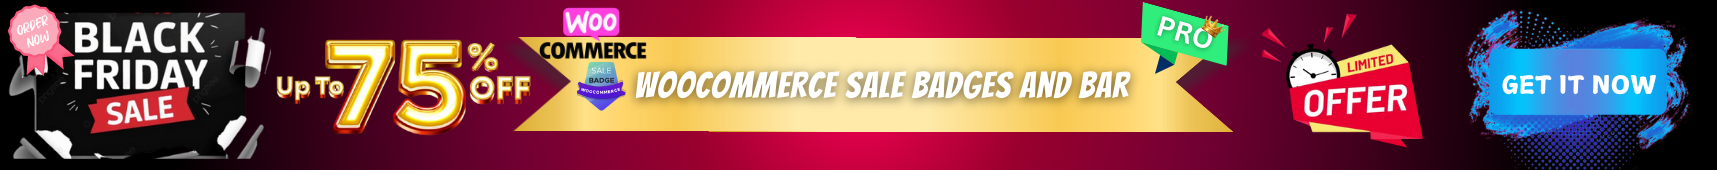
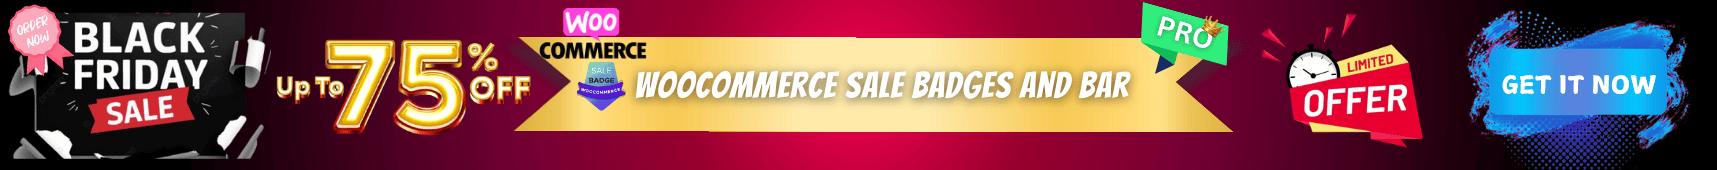
Delete Cybermonday Css and add offer image

diff --git a/assets/js/dev/admin/components/BlackFriday/BlackFridayBanner.jsx b/assets/js/dev/admin/components/BlackFriday/BlackFridayBanner.jsx
@@ -1,28 +1,73 @@
-import React, { useState } from 'react';
+import React, { useState, useEffect } from 'react';
 import { __ } from '@wordpress/i18n';
 import { IMAGES_URL } from './../../utils/constants';
 
 const BlackFridayBanner = () => {
 	const [ show, setShow ] = useState( true );
+	const [ bannerData, setBannerData ] = useState( null );
+
+	const offers = [
+		{
+			id: 'black_friday',
+			startDate: `${ new Date().getFullYear() }-11-20`,
+			endDate: `${ new Date().getFullYear() }-11-30`,
+			imgSrc: 'Black-Friday-badge.png',
+			altText: 'Black Friday OFFER',
+			link:
+				'https://www.asanaplugins.com/product/woocommerce-sale-badges-and-product-labels/',
+		},
+		{
+			id: 'cyber_monday',
+			startDate: `${ new Date().getFullYear() }-12-01`,
+			endDate: `${ new Date().getFullYear() }-12-10`,
+			imgSrc: 'Cyber-Monday-badge.png',
+			altText: 'Cyber Monday OFFER',
+			link:
+				'https://asanaplugins.com/product/woocommerce-sale-badges-and-product-labels/',
+		},
+	];
+
+	useEffect( () => {
+		const today = new Date();
+		const closedUntil = localStorage.getItem( 'bannerClosedUntil' );
+		const closedDate = closedUntil ? new Date( closedUntil ) : null;
+
+		// Check if the banner should remain hidden
+		if ( closedDate && today < closedDate ) {
+			setShow( false );
+		} else {
+			const activeOffer = offers.find( ( offer ) => {
+				const start = new Date( offer.startDate );
+				const end = new Date( offer.endDate );
+				return today >= start && today <= end;
+			} );
+			setBannerData( activeOffer || null );
+		}
+	}, [ offers ] );
 
 	const deleteBanner = ( e ) => {
 		e.preventDefault();
+		const tomorrow = new Date();
+		tomorrow.setDate( tomorrow.getDate() + 1 );
+		localStorage.setItem( 'bannerClosedUntil', tomorrow.toISOString() );
 		setShow( false );
 	};
 
+	if ( ! show || ! bannerData ) {
+		return null;
+	}
+
 	return (
-		<div
-			className="asnp-m-4 asnp-relative"
-			style={ { display: `${ show === false ? 'none' : 'block' }` } }
-		>
+		<div className="asnp-m-4 asnp-relative">
 			<a
 				className="focus:asnp-shadow-none focus:asnp-outline-none"
-				href="https://www.asanaplugins.com/product/woocommerce-sale-badges-and-product-labels/"
+				href={ bannerData.link }
 				target="_blank"
+				rel="noopener noreferrer"
 			>
 				<img
-					src={ IMAGES_URL + 'Black-Friday-badge.png' }
-					alt="Black Friday OFFER"
+					src={ `${ IMAGES_URL }${ bannerData.imgSrc }` }
+					alt={ bannerData.altText }
 				/>
 			</a>
 			<button
@@ -31,10 +76,11 @@ const BlackFridayBanner = () => {
 				onClick={ deleteBanner }
 			>
 				<span className="screen-reader-text">
-					{ __( 'Maybe Later', 'asnp-easy-product-bundles' ) }
+					{ __( 'Maybe Later', 'easy-sale-badges-for-woocommerce' ) }
 				</span>
 			</button>
 		</div>
 	);
 };
+
 export default BlackFridayBanner;

diff --git a/assets/js/dev/admin/views/Badges/index.jsx b/assets/js/dev/admin/views/Badges/index.jsx
@@ -17,7 +17,6 @@ import Pagination from '../../components/Pagination';
 import styled, { StyleSheetManager } from 'styled-components';
 import BadgePreview from '../../utils/labelPreview';
 import BlackFridayBanner from '../../components/BlackFriday/BlackFridayBanner';
-import Cybermonday from '../../components/Offers/Cybermonday';
 
 import './style.scss';
 
@@ -276,31 +275,9 @@ export default function Badges() {
 		}
 	};
 
-	const currentDate = new Date();
-	const year = currentDate.getFullYear();
-
-	const blackFridayStartDate = new Date( `${ year }-11-20` );
-	const blackFridayEndDate = new Date( `${ year }-11-30` );
-	const cyberMondayStartDate = new Date( `${ year }-12-01` );
-	const cyberMondayEndDate = new Date( `${ year }-12-10` );
-
-	let bannerContent = null;
-
-	if (
-		currentDate >= blackFridayStartDate &&
-		currentDate <= blackFridayEndDate
-	) {
-		bannerContent = <BlackFridayBanner />;
-	} else if (
-		currentDate >= cyberMondayStartDate &&
-		currentDate <= cyberMondayEndDate
-	) {
-		bannerContent = <Cybermonday />;
-	}
-
 	return (
 		<div>
-			{ bannerContent }
+			<BlackFridayBanner />
 			<div className="asnp-flex asnp-space-x-2">
 				<h1 className="asnp-heading-inline">
 					{ __( 'Badges', 'easy-sale-badges-for-woocommerce' ) }
